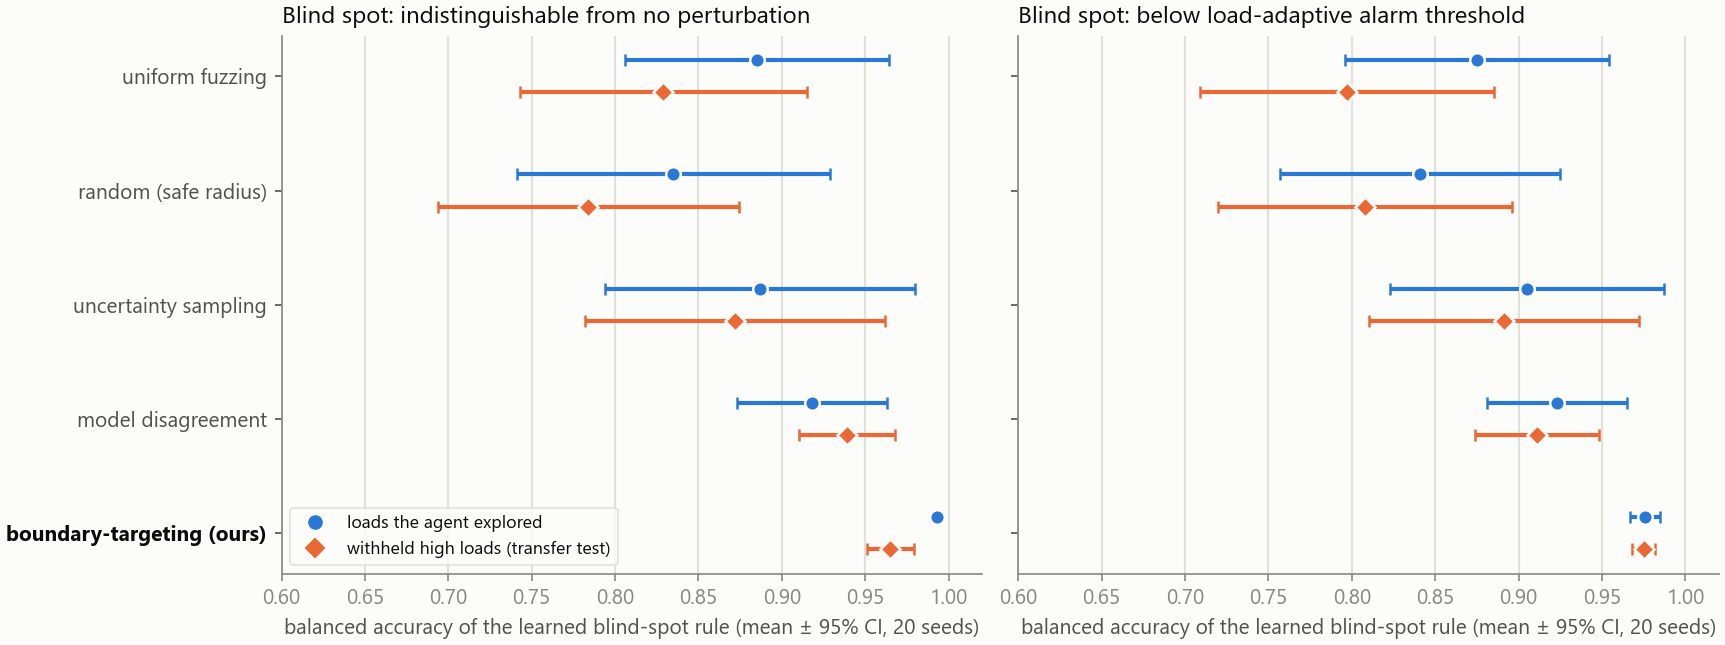
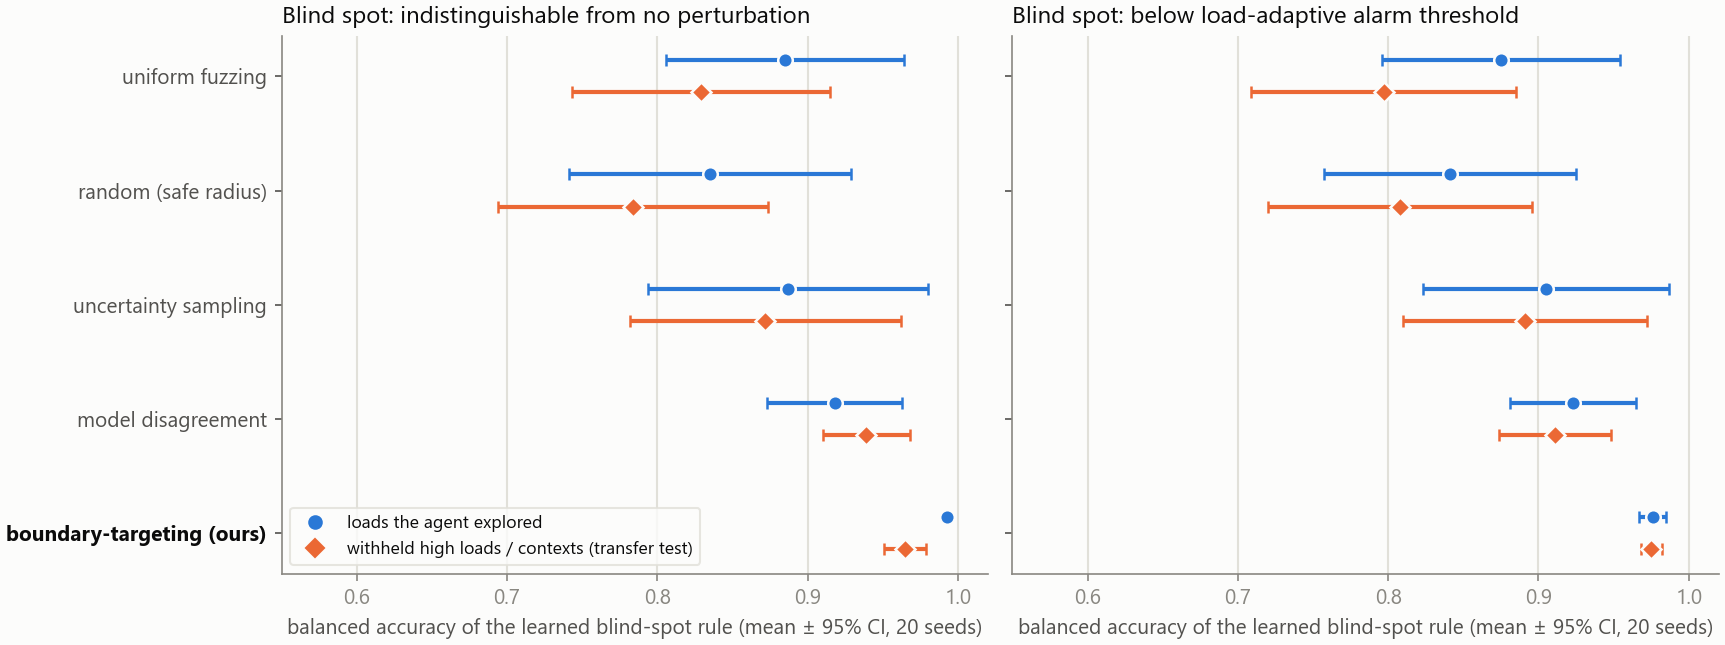
Add AI-security testbed: audit a learned detector for blind spots and shortcuts
Synthetic gradient-boosted detector trained with a coverage gap; agent maps
its blind spots with withheld contexts and a paired-intervention shortcut
test. Adds 20-seed results, map and result charts, README section and a smoke
test.

diff --git a/scripts/make_media.py b/scripts/make_media.py
@@ -17,6 +17,7 @@ sys.path.insert(0, os.path.dirname(os.path.dirname(os.path.abspath(__file__))))
 from abd.blindspot import DELTA, IMPACT, LOAD_CAP, BlindAgent, adaptive_threshold  # noqa: E402
 from abd.grid_ctx_env import CHANNELS, GridContextEnv  # noqa: E402
 from abd.grid_env import GridDetectorEnv  # noqa: E402
+from abd.ml_detector_env import TRAIN_CTX_MAX, TRAIN_VIS_MIN, MLDetectorEnv  # noqa: E402
 
 OUT = os.path.join(os.path.dirname(os.path.dirname(os.path.abspath(__file__))), "assets")
 os.makedirs(OUT, exist_ok=True)
@@ -66,6 +67,34 @@ def response_map():
                  bbox=dict(facecolor=SURF, edgecolor=GRID, boxstyle="round,pad=0.4"))
     fig.suptitle("Where the grid's bad-data detector goes blind", x=0.01, ha="left", fontsize=14, color=INK)
     fig.savefig(os.path.join(OUT, "detector_response_map.png"), dpi=150)
+    plt.close(fig)
+
+
+# ---------------------------------------------------------------- 1b. learned-detector map
+def ml_map():
+    env = MLDetectorEnv()
+    cx = np.linspace(0, 1, 140)
+    vy = np.linspace(0, 1, 140)
+    CX, VY = np.meshgrid(cx, vy)
+    fig, axes = plt.subplots(1, 2, figsize=(11, 4.4), sharey=True, constrained_layout=True)
+    for ax, inten in zip(axes, [0.5, 1.0]):
+        P = env.truth(np.c_[CX.ravel(), np.full(CX.size, inten), VY.ravel()]).reshape(CX.shape)
+        im = ax.imshow(P, origin="lower", extent=[0, 1, 0, 1], aspect="auto", vmin=0, vmax=1,
+                       cmap=plt.matplotlib.colors.LinearSegmentedColormap.from_list("s", SEQ))
+        ax.contour(CX, VY, P, levels=[0.5], colors=[ORANGE], linewidths=2.2)
+        ax.add_patch(plt.Rectangle((0, TRAIN_VIS_MIN), TRAIN_CTX_MAX, 1 - TRAIN_VIS_MIN, fill=False, ec=INK, lw=1.6, ls="--"))
+        ax.axvline(LOAD_CAP, color=MAGENTA, lw=1.6)
+        ax.set_title(f"Attack intensity {inten:.1f}", loc="left", fontsize=12, color=INK)
+        ax.set_xlabel("context (never part of an attack signature)")
+        ax.grid(False)
+    axes[0].set_ylabel("attack signature visibility")
+    axes[1].text(0.985, 0.04, "dashed box: the only conditions attacks appeared in during training\nmagenta line: edge of what the agent may explore\norange: detector's 50% decision boundary",
+                 ha="right", va="bottom", fontsize=8.2, color=INK2,
+                 bbox=dict(facecolor=SURF, edgecolor=GRID, boxstyle="round,pad=0.4"))
+    cb = fig.colorbar(im, ax=axes, shrink=0.85, pad=0.01)
+    cb.set_label("learned detector: P(attack)")
+    fig.suptitle("A learned detector's blind spot follows its training-data gap, not the attack", x=0.01, ha="left", fontsize=14, color=INK)
+    fig.savefig(os.path.join(OUT, "ml_detector_map.png"), dpi=150)
     plt.close(fig)
 
 
@@ -173,7 +202,8 @@ def missing_gif(seed=3, total=150):
 
 
 if __name__ == "__main__":
-    which = sys.argv[1:] or ["map", "hunt", "missing"]
+    which = sys.argv[1:] or ["map", "mlmap", "hunt", "missing"]
     if "map" in which: response_map(); print("map done", flush=True)
+    if "mlmap" in which: ml_map(); print("mlmap done", flush=True)
     if "hunt" in which: hunt_gif(); print("hunt done", flush=True)
     if "missing" in which: missing_gif(); print("missing done", flush=True)

diff --git a/abd/ml_detector_env.py b/abd/ml_detector_env.py
@@ -1,0 +1,60 @@
+"""AI-security testbed: audit a LEARNED detector (synthetic tabular traffic, no real attacks).
+
+A gradient-boosted classifier is trained to separate benign from attack feature vectors.
+Its training data has a coverage gap, like real security datasets: attacks were only
+recorded in low-context conditions and with clearly visible signatures. The detector can
+therefore learn a *shortcut* (context) and has never seen quiet attacks or attacks in
+high-context conditions.
+
+Agent knobs, x in [0,1]^3 (same layout as the grid sandbox so one engine serves both):
+  x0 : context (think network load / time of day). Never part of an attack signature.
+  x1 : attack intensity (ground truth: attack present iff x1 > 0.3)
+  x2 : visibility of the attack signature (0 = attack perfectly mimics benign traffic)
+Output: detector's attack probability on one noisy synthetic sample.
+Everything is synthetic feature vectors; nothing here models or generates real attacks.
+"""
+import numpy as np
+from sklearn.ensemble import HistGradientBoostingClassifier
+
+DIM = 6
+NOISE = 0.35
+TRAIN_CTX_MAX = 0.5      # attacks were only ever recorded at context <= this
+TRAIN_VIS_MIN = 0.5      # ... and only with clearly visible signatures
+CTX_SHIFT = 2.5          # how strongly context moves ordinary traffic
+
+
+class MLDetectorEnv:
+    dim = 3
+    safety_limit = 1e9
+
+    def __init__(self, noise_seed=0, model_seed=0):
+        rng = np.random.default_rng(777)             # fixed world: same traffic physics every run
+        self.d = rng.normal(size=DIM); self.d *= 3.5 / np.linalg.norm(self.d)
+        self.m0, self.m1 = rng.normal(size=DIM), rng.normal(size=DIM) * CTX_SHIFT
+        self.rng = np.random.default_rng(noise_seed)
+        self.violations = 0
+        self.n_queries = 0
+        self.model = self._train(np.random.default_rng(model_seed))
+
+    def _mean(self, X):
+        X = np.atleast_2d(X)
+        return self.m0 + X[:, [0]] * self.m1 + (X[:, [1]] * X[:, [2]]) * self.d
+
+    def _train(self, rng, n=6000):
+        k = rng.uniform(0, 1, n)
+        is_att = rng.random(n) < 0.35
+        k = np.where(is_att, rng.uniform(0, TRAIN_CTX_MAX, n), k)          # attacks only at low context
+        inten = np.where(is_att, rng.uniform(0.35, 1, n), 0.0)
+        vis = np.where(is_att, rng.uniform(TRAIN_VIS_MIN, 1, n), rng.uniform(0, 1, n))
+        F = self._mean(np.c_[k, inten, vis]) + rng.normal(0, NOISE, (n, DIM))
+        return HistGradientBoostingClassifier(max_iter=150, learning_rate=0.1, random_state=0).fit(F, is_att)
+
+    # ground truth, used only for scoring
+    def truth(self, X):
+        """Expected detector probability on noise-free features."""
+        return self.model.predict_proba(self._mean(X))[:, 1]
+
+    def run(self, x):
+        self.n_queries += 1
+        f = self._mean(np.asarray(x, float)) + self.rng.normal(0, NOISE, (1, DIM))
+        return float(self.model.predict_proba(f)[0, 1])

diff --git a/run_ml_detector.py b/run_ml_detector.py
@@ -1,0 +1,62 @@
+"""AI-security: audit a LEARNED detector. Blind-spot map with withheld contexts + shortcut test.
+
+Prints in the same format as run_blind.py so scripts/make_results.py can chart it.
+"""
+import sys
+
+import numpy as np
+from scipy import stats
+
+from abd.blindspot import IMPACT, LOAD_CAP, BlindAgent
+from abd.ml_detector_env import MLDetectorEnv
+from run_blind import bal_acc, ci
+
+_e = MLDetectorEnv()
+T = np.random.default_rng(99).uniform(0, 1, (6000, 3))
+T = T[T[:, 1] > IMPACT]
+TRUE = _e.truth(T) < 0.5
+SEEN = T[:, 0] <= LOAD_CAP
+
+
+def trial(strategy, seed, budget=60):
+    env = MLDetectorEnv(noise_seed=seed)
+    a = BlindAgent(env, strategy, step_radius=0.2, seed=seed, label_mode="absolute")
+    a.bootstrap(n=25, hi=0.6)
+    a.calibrate_null()
+    a.explore(budget)
+    a.blind_rule()
+    out = []
+    for p in (a.predict_blind(T), a.predict_blind_logit(T)):
+        out += [bal_acc(p[SEEN], TRUE[SEEN]), bal_acc(p[~SEEN], TRUE[~SEEN])]
+    return (*out, a)
+
+
+def shortcut_test(n=60, seed=0):
+    """Paired intervention: same attack, only the context knob changes. Context should be irrelevant."""
+    env = MLDetectorEnv(noise_seed=seed)
+    rng = np.random.default_rng(seed)
+    base = np.c_[np.zeros(n), rng.uniform(0.7, 1, n), rng.uniform(0.7, 1, n)]   # strong, visible attacks
+    lo, hi = base.copy(), base.copy()
+    lo[:, 0], hi[:, 0] = rng.uniform(0.1, 0.4, n), rng.uniform(0.85, 1.0, n)
+    d_att = np.array([env.run(h) - env.run(l) for l, h in zip(lo, hi)])
+    ben = base.copy(); ben[:, 1] = 0
+    blo, bhi = ben.copy(), ben.copy(); blo[:, 0], bhi[:, 0] = lo[:, 0], hi[:, 0]
+    d_ben = np.array([env.run(h) - env.run(l) for l, h in zip(blo, bhi)])
+    return d_att, d_ben
+
+
+if __name__ == "__main__":
+    n = int(sys.argv[1]) if len(sys.argv) > 1 else 20
+    print(f"##### blind-spot type: ml_detector  (true share: seen contexts {TRUE[SEEN].mean():.2f}, withheld {TRUE[~SEEN].mean():.2f})")
+    ex = None
+    for s in ["uniform", "random", "uncertainty", "discriminating", "boundary"]:
+        R = [trial(s, i) for i in range(n)]
+        print(f"{s:15s} TREE seen {ci([r[0] for r in R])} withheld {ci([r[1] for r in R])} | "
+              f"LOGIT seen {ci([r[2] for r in R])} withheld {ci([r[3] for r in R])}", flush=True)
+        if s == "boundary":
+            ex = R[0][4]
+    print("Example tree rule (boundary agent, seed 0):\n" + ex.rules())
+    da, db = shortcut_test()
+    print("\n##### shortcut test (paired intervention: strong visible attack, context 0.1-0.4 -> 0.85-1.0)")
+    print(f"mean change in detector score on attacks : {da.mean():+.3f}  (Wilcoxon p = {stats.wilcoxon(da)[1]:.2g}, n={len(da)})")
+    print(f"mean change in detector score on benign  : {db.mean():+.3f}  (Wilcoxon p = {stats.wilcoxon(db)[1]:.2g}, n={len(db)})")

diff --git a/scripts/make_results.py b/scripts/make_results.py
@@ -43,12 +43,13 @@ def parse_blind(txt):
     return blocks
 
 
-def blind_chart():
-    blocks = parse_blind(read("blind_spot_results.txt"))
+def blind_chart(src="blind_spot_results.txt", out="results_blind_spot.png"):
+    blocks = parse_blind(read(src))
     names = {"uniform": "uniform fuzzing", "random": "random (safe radius)", "uncertainty": "uncertainty sampling",
              "discriminating": "model disagreement", "boundary": "boundary-targeting (ours)"}
     titles = {"delta": "Blind spot: indistinguishable from no perturbation",
-              "adaptive": "Blind spot: below load-adaptive alarm threshold"}
+              "adaptive": "Blind spot: below load-adaptive alarm threshold",
+              "ml_detector": "Learned detector says 'benign' on a real attack"}
     fig, axes = plt.subplots(1, len(blocks), figsize=(11.5, 4.3), sharey=True, constrained_layout=True)
     axes = [axes] if len(blocks) == 1 else axes
     for ax, (kind, rows) in zip(axes, blocks.items()):
@@ -62,13 +63,13 @@ def blind_chart():
         for t, k in zip(ax.get_yticklabels(), order):
             if k == "boundary":
                 t.set_fontweight("bold"); t.set_color(INK)
-        ax.set_xlim(0.6, 1.02); ax.xaxis.grid(True, color=GRID, lw=1); ax.set_axisbelow(True)
+        ax.set_xlim(0.55, 1.02); ax.xaxis.grid(True, color=GRID, lw=1); ax.set_axisbelow(True)
         ax.set_xlabel("balanced accuracy of the learned blind-spot rule (mean ± 95% CI, 20 seeds)")
         ax.set_title(titles[kind], loc="left", fontsize=11.5, color=INK)
     h1 = plt.Line2D([], [], color=BLUE, marker="o", ls="", label="loads the agent explored")
-    h2 = plt.Line2D([], [], color=ORANGE, marker="D", ls="", label="withheld high loads (transfer test)")
+    h2 = plt.Line2D([], [], color=ORANGE, marker="D", ls="", label="withheld high loads / contexts (transfer test)")
     axes[0].legend(handles=[h1, h2], loc="lower left", fontsize=8.5, facecolor=SURF, edgecolor=GRID)
-    fig.savefig(os.path.join(OUT, "results_blind_spot.png"), dpi=150)
+    fig.savefig(os.path.join(OUT, out), dpi=150)
     plt.close(fig)
 
 
@@ -116,6 +117,9 @@ if __name__ == "__main__":
     os.makedirs(OUT, exist_ok=True)
     if os.path.exists(os.path.join(RES, "blind_spot_results.txt")):
         blind_chart(); terminal("terminal_blind_spot.png", "blind_spot_results.txt", "python run_blind.py 20", 46)
+    if os.path.exists(os.path.join(RES, "ml_detector_results.txt")):
+        blind_chart("ml_detector_results.txt", "results_ml_detector.png")
+        terminal("terminal_ml_detector.png", "ml_detector_results.txt", "python run_ml_detector.py 20", 24)
     missing_chart()
     terminal("terminal_missing_variable.png", "missing_variable_results.txt", "python run_missing.py 20", 10)
     print("results assets done")

diff --git a/tests/test_smoke.py b/tests/test_smoke.py
@@ -28,3 +28,13 @@ def test_physics_consistent_perturbation_is_invisible():
     stealth = env.truth(np.array([[0.5, 1.0, 0.0]]))[0]
     loud = env.truth(np.array([[0.5, 1.0, 1.0]]))[0]
     assert abs(stealth - clean) < 1e-6 and loud > 10 * clean
+
+
+def test_learned_detector_has_training_gap():
+    """Strong visible attacks are caught inside the training region and missed far outside it."""
+    from abd.ml_detector_env import MLDetectorEnv
+
+    env = MLDetectorEnv()
+    inside = env.truth(np.array([[0.2, 1.0, 0.9]]))[0]
+    outside = env.truth(np.array([[1.0, 1.0, 0.9]]))[0]
+    assert inside > 0.9 and outside < 0.2

diff --git a/abd/blindspot.py b/abd/blindspot.py
@@ -41,7 +41,9 @@ class BlindAgent(Agent):
     def labels(self, X, y):
         impact = X[:, 1] > IMPACT
         ref = self.null.predict(X[:, :1])
-        if self.mode == "adaptive":
+        if self.mode == "absolute":
+            blind = impact & (y < 0.5)                       # learned detector says 'benign' on a real attack
+        elif self.mode == "adaptive":
             blind = impact & (y < adaptive_threshold(ref))   # detector would not raise an alarm
         else:
             blind = impact & ((y - ref) < DELTA)             # indistinguishable from no perturbation

diff --git a/README.md b/README.md
@@ -96,6 +96,32 @@ Left: random experiment conditions. Right: conditions chosen where the fitted mo
 <p align="center"><img src="assets/terminal_missing_variable.png" width="900" alt="Terminal output of run_missing.py"></p>
 </details>
 
+### 3. Contribution to AI security: auditing a *learned* detector
+
+The grid detector is hand-built maths. Most deployed detectors are **learned**, and they fail differently: their blind spots come from gaps in the training data and from shortcut features. This testbed applies the same engine to a gradient-boosted classifier trained on **synthetic** traffic-like feature vectors (no real malware, attack data or prompt text anywhere in the repo).
+
+In training, attacks were only ever recorded at low *context* (think network load or time of day) and with clearly visible signatures. Context never defines an attack, so any dependence on it is a shortcut.
+
+<p align="center"><img src="assets/ml_detector_map.png" width="880" alt="Heatmaps of the learned detector's attack probability with the training-coverage box and the agent's exploration limit"></p>
+
+The detector's blind spot follows its **training gap**, not the attack: a strong, fully visible attack is caught up to about 0.6 context and missed beyond about 0.7. The agent may only explore contexts up to 0.7; everything above is withheld (98% of it is a true blind spot, so that test is mostly "does the rule extrapolate to a region it never saw").
+
+<p align="center"><img src="assets/results_ml_detector.png" width="760" alt="Dot plot of learned blind-spot rule accuracy by strategy on explored and withheld contexts"></p>
+
+**Blind-spot map (20 seeds, logistic rule, withheld contexts):** boundary-targeting **0.788 ± 0.050**, uncertainty sampling 0.718 ± 0.053, uniform fuzzing 0.692 ± 0.086, model disagreement 0.678 ± 0.053, random 0.653 ± 0.066. Boundary-targeting is best, but this is a smaller and noisier win than on the grid: its interval overlaps uncertainty sampling, so treat it as suggestive. On the contexts the agent did explore, all methods are close (0.79 to 0.86).
+
+**Shortcut test (paired intervention):** hold a strong visible attack fixed and change *only* the context from low (0.1 to 0.4) to high (0.85 to 1.0). The detector's score on the attack drops by **0.73** (Wilcoxon p = 1.6e-11, n = 60), while its score on benign traffic moves by 0.12 (also significant, p = 6e-11, but about six times smaller). A detector that did not depend on context would show no change, so this flags context as a variable the model should not use.
+
+<details><summary>Raw output</summary>
+<p align="center"><img src="assets/terminal_ml_detector.png" width="900" alt="Terminal output of run_ml_detector.py"></p>
+</details>
+
+**Why this matters, and what it does not show**
+- It demonstrates the engine as an *audit tool for learned detectors*: it returns a readable map of where the detector fails and which non-causal variable it leans on, with evidence, using only black-box queries.
+- The training gap and the shortcut are planted by me. This shows the engine can find a known kind of flaw in a learned detector, not that it will find unknown flaws in a deployed one.
+- The tree rules in the saved output call the context knob `load` because the engine reuses the grid sandbox's input layout.
+- Next steps for credibility: real public intrusion-detection datasets, several model families, and comparison with robustness-testing tools.
+
 ### How the agent works
 
 | Step | Implementation |
@@ -130,6 +156,7 @@ python run_demo.py                  # stage 0: toy hidden-regime environment
 python run_grid.py                  # stage 1: grid detector, prediction error
 python run_blind.py 20              # stage 2: blind-spot map + withheld-load transfer (slow)
 python run_missing.py 20            # stage 3: missing-variable discovery
+python run_ml_detector.py 20        # stage 4: audit a learned (ML) detector + shortcut test
 python scripts/make_media.py        # regenerate the GIFs and heatmap (needs PYTHONPATH=.)
 python scripts/make_results.py      # regenerate the charts from results/*.txt
 ```
@@ -145,7 +172,8 @@ abd/
   grid_env.py       IEEE-14 grid + DC state estimator + bad-data detector
   grid_ctx_env.py   same, plus a hidden temperature driver and context channels
   blindspot.py      blind-spot agent, load withholding, adaptive-threshold labels
-run_demo.py  run_grid.py  run_blind.py  run_missing.py
+  ml_detector_env.py  learned (gradient-boosted) detector on synthetic traffic with a training gap
+run_demo.py  run_grid.py  run_blind.py  run_missing.py  run_ml_detector.py
 scripts/            make_media.py (GIFs, heatmap), make_results.py (charts)
 results/            saved outputs of the 20-seed runs
 tests/              smoke tests
@@ -174,7 +202,7 @@ Hidden-variable discovery with active experiments is already being pursued in ge
 
 - Cheaper, sequential confirmation for the missing-variable step
 - Baselines from the closest prior art (safe level-set sampling, BO falsification)
-- Environments I did not design (larger grids, other domains, an ML detector)
+- Environments I did not design (larger grids, other domains, real public intrusion-detection datasets, several model families)
 - Explicit hypothesis-based experiment selection (expected information gain) instead of committee disagreement
 - A benchmark of procedurally generated hidden-rule environments
 
